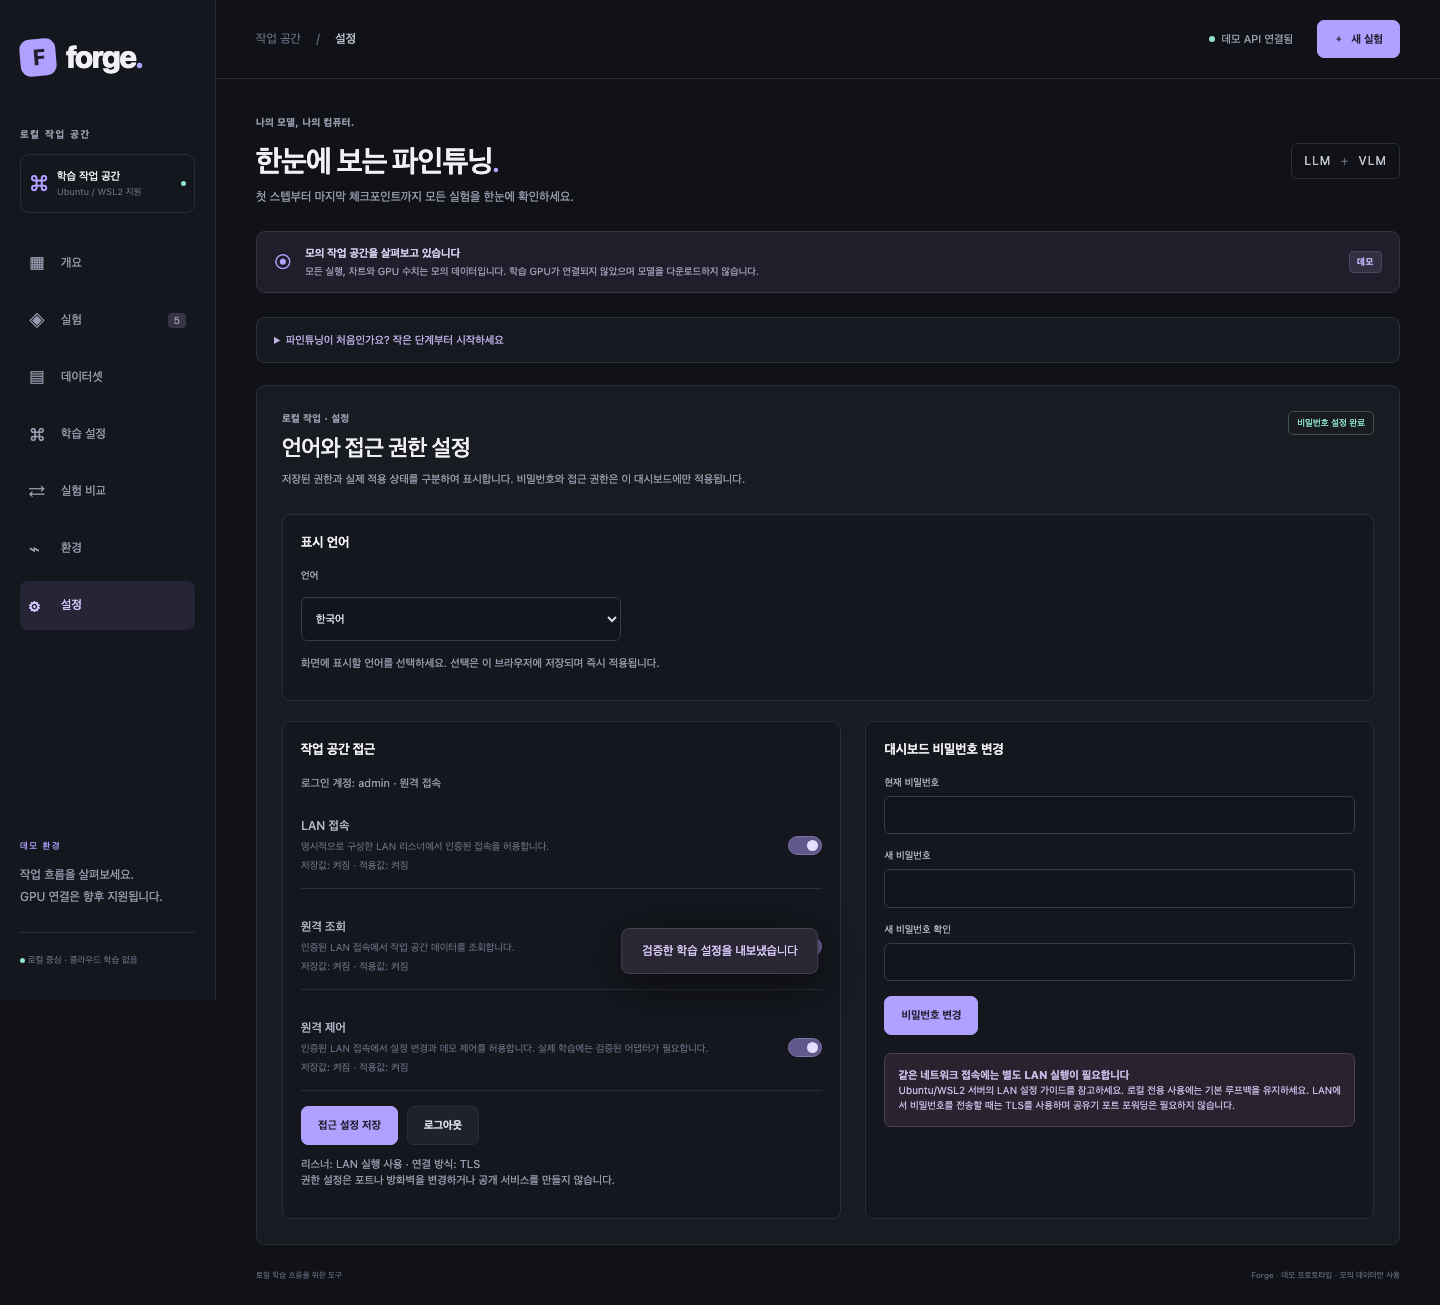
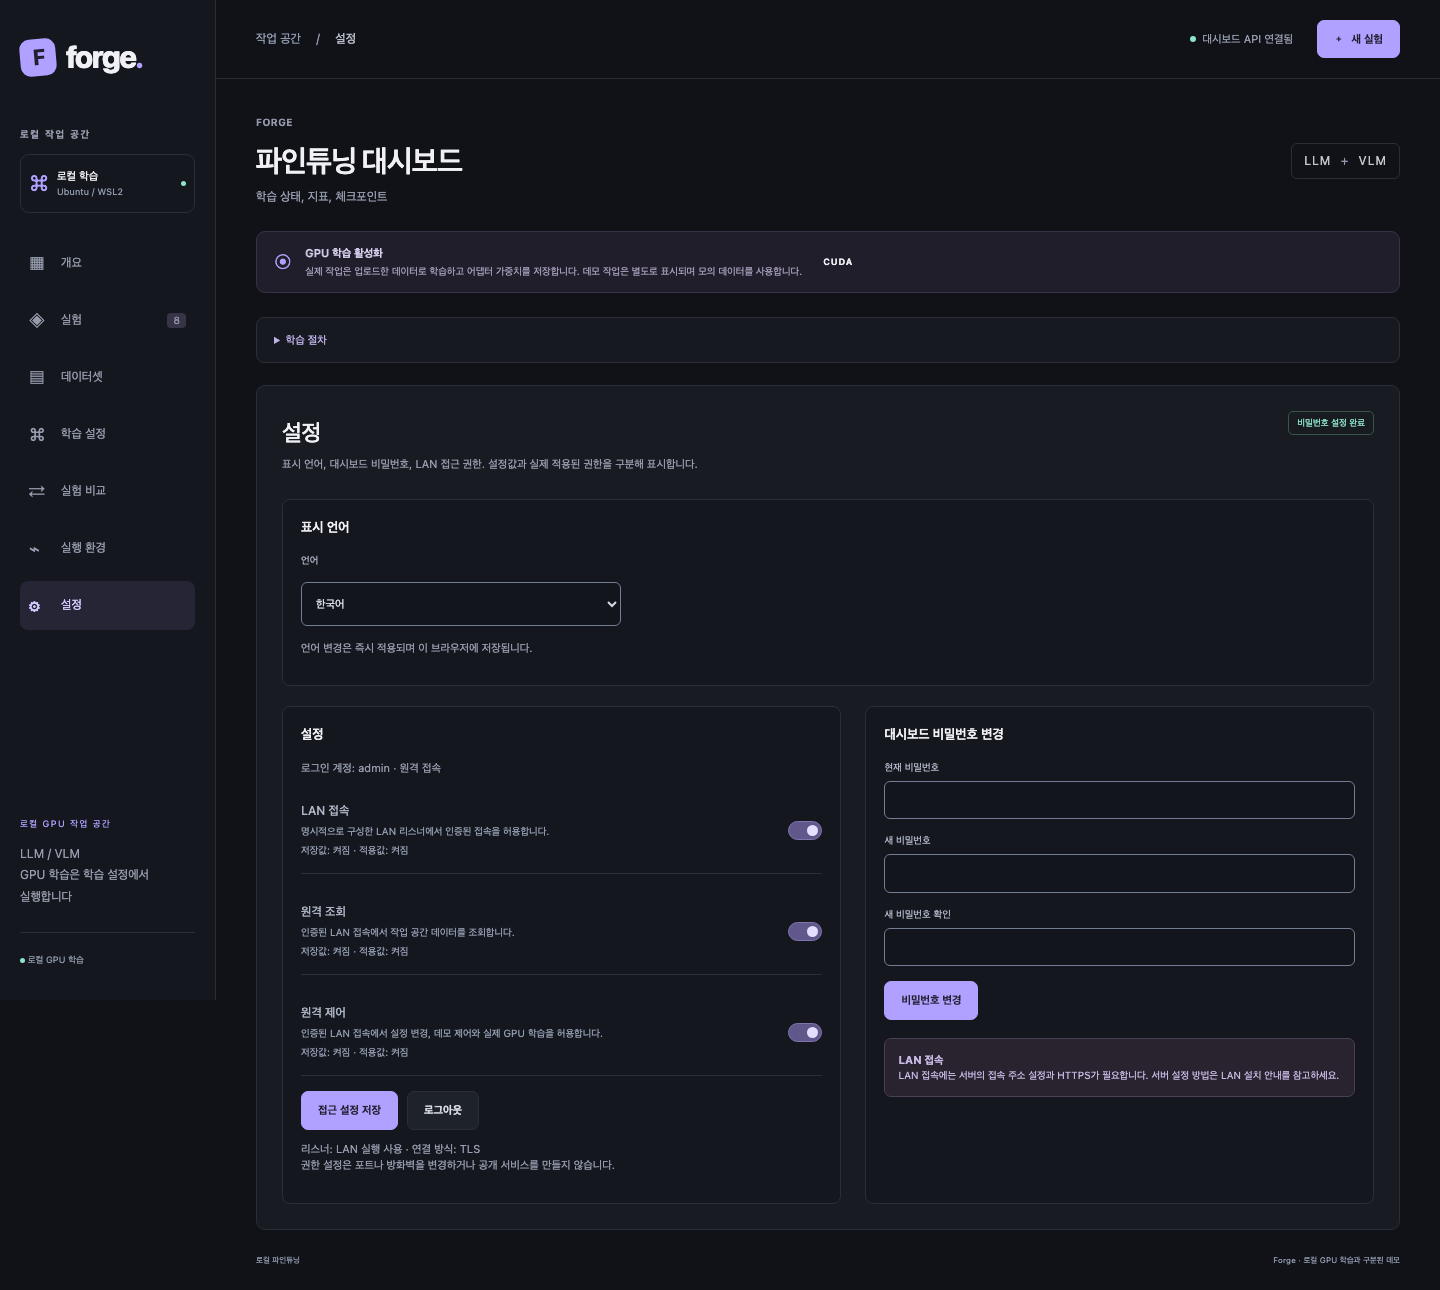
Record bilingual copy verification and refreshed dashboard screenshots

diff --git a/docs/validation.md b/docs/validation.md
@@ -85,3 +85,9 @@ NODE_PATH=/tmp/forge-browser-check/node_modules node tools/verify_browser.js \
 자체 서명 서버를 격리된 Chromium에서 검사할 때는 `--certificate /PRIVATE/public-server-cert.pem`을 추가합니다. 참조 인증서의 유효 기간과 접속 호스트를 검사한 후 정확한 SPKI 핀을 사용합니다. 이는 OS 신뢰 설치와 구분되며, 전역 TLS 오류 무시는 사용하지 않습니다.
 
 동일 명령에 `--session-expiry`를 추가하면 실제 1시간 대기를 수행합니다. 원본 쿠키를 유지한 HTTPS 요청은 인증서 체인·기간·호스트를 검증하고, 만료 후 401·로그인 창·재로그인을 확인합니다. 테스트 중 서버를 재시작하면 세션이 조기에 만료되므로 검사가 실패할 수 있습니다. 자동 접근성 검사와 주요 키보드 검증은 보조기술 전체 감사나 WCAG 적합성 인증을 대신하지 않습니다.
+
+## 화면 문구 검증
+
+2026-10-04, `69ad6b1`에서 한국어·영어 제목과 안내문을 기능명 중심으로 수정했습니다. HTTPS Chromium에서 5개 기능 화면의 두 언어 제목, 대시보드·로그인 제목, 데스크톱·모바일 표시, 언어 변경 시 미저장 학습 설정 유지를 확인했습니다. 브라우저 JavaScript 오류는 없었습니다. 프런트엔드 37개 테스트, 언어 테스트, 오프라인 표시 검사와 [CI](https://github.com/Phjrab/forge-finetune-dashboard/actions/runs/37199569165)가 통과했습니다.
+
+정적 파일만 갱신하여 서비스 재시작 없이 반영했습니다. 스크린샷은 기존 합성 데이터 검증 결과를 사용하며, 이번 변경에서는 GPU 학습과 1시간 세션 검사를 다시 실행하지 않았습니다.
